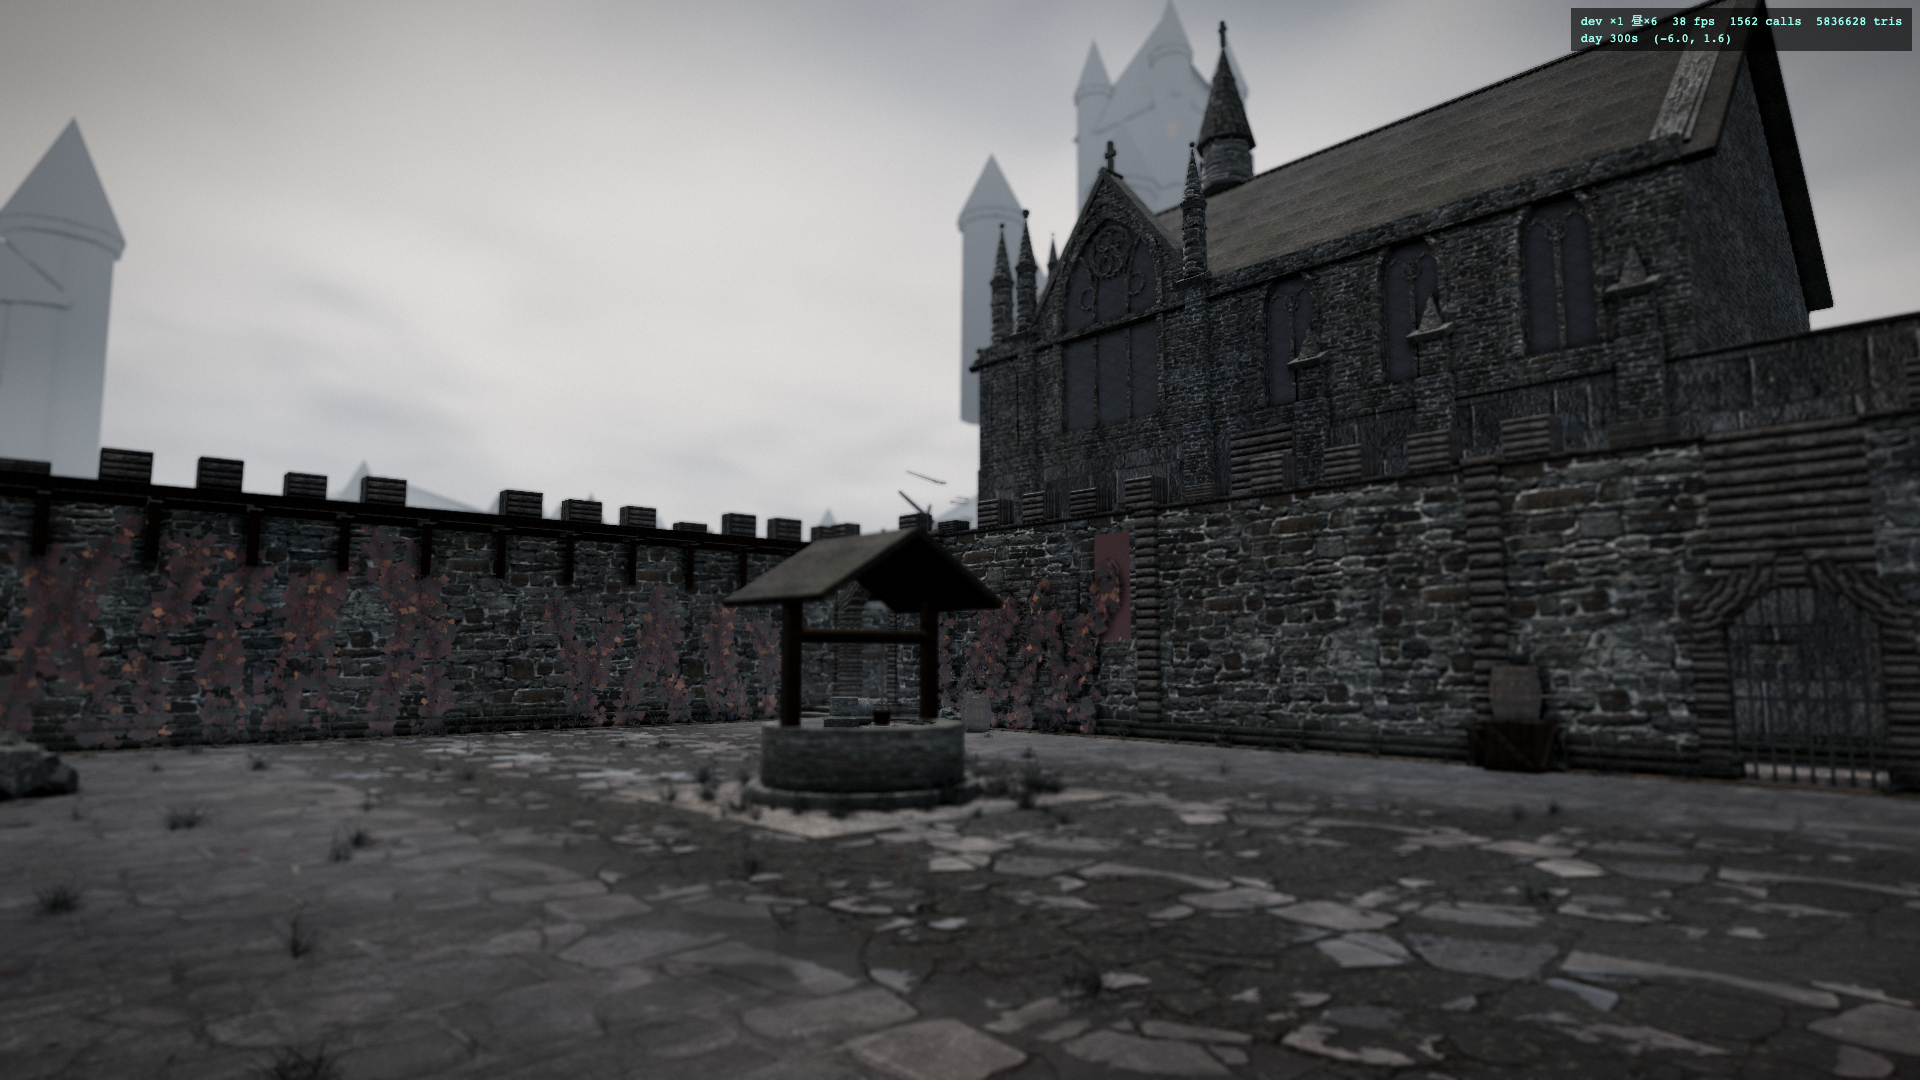
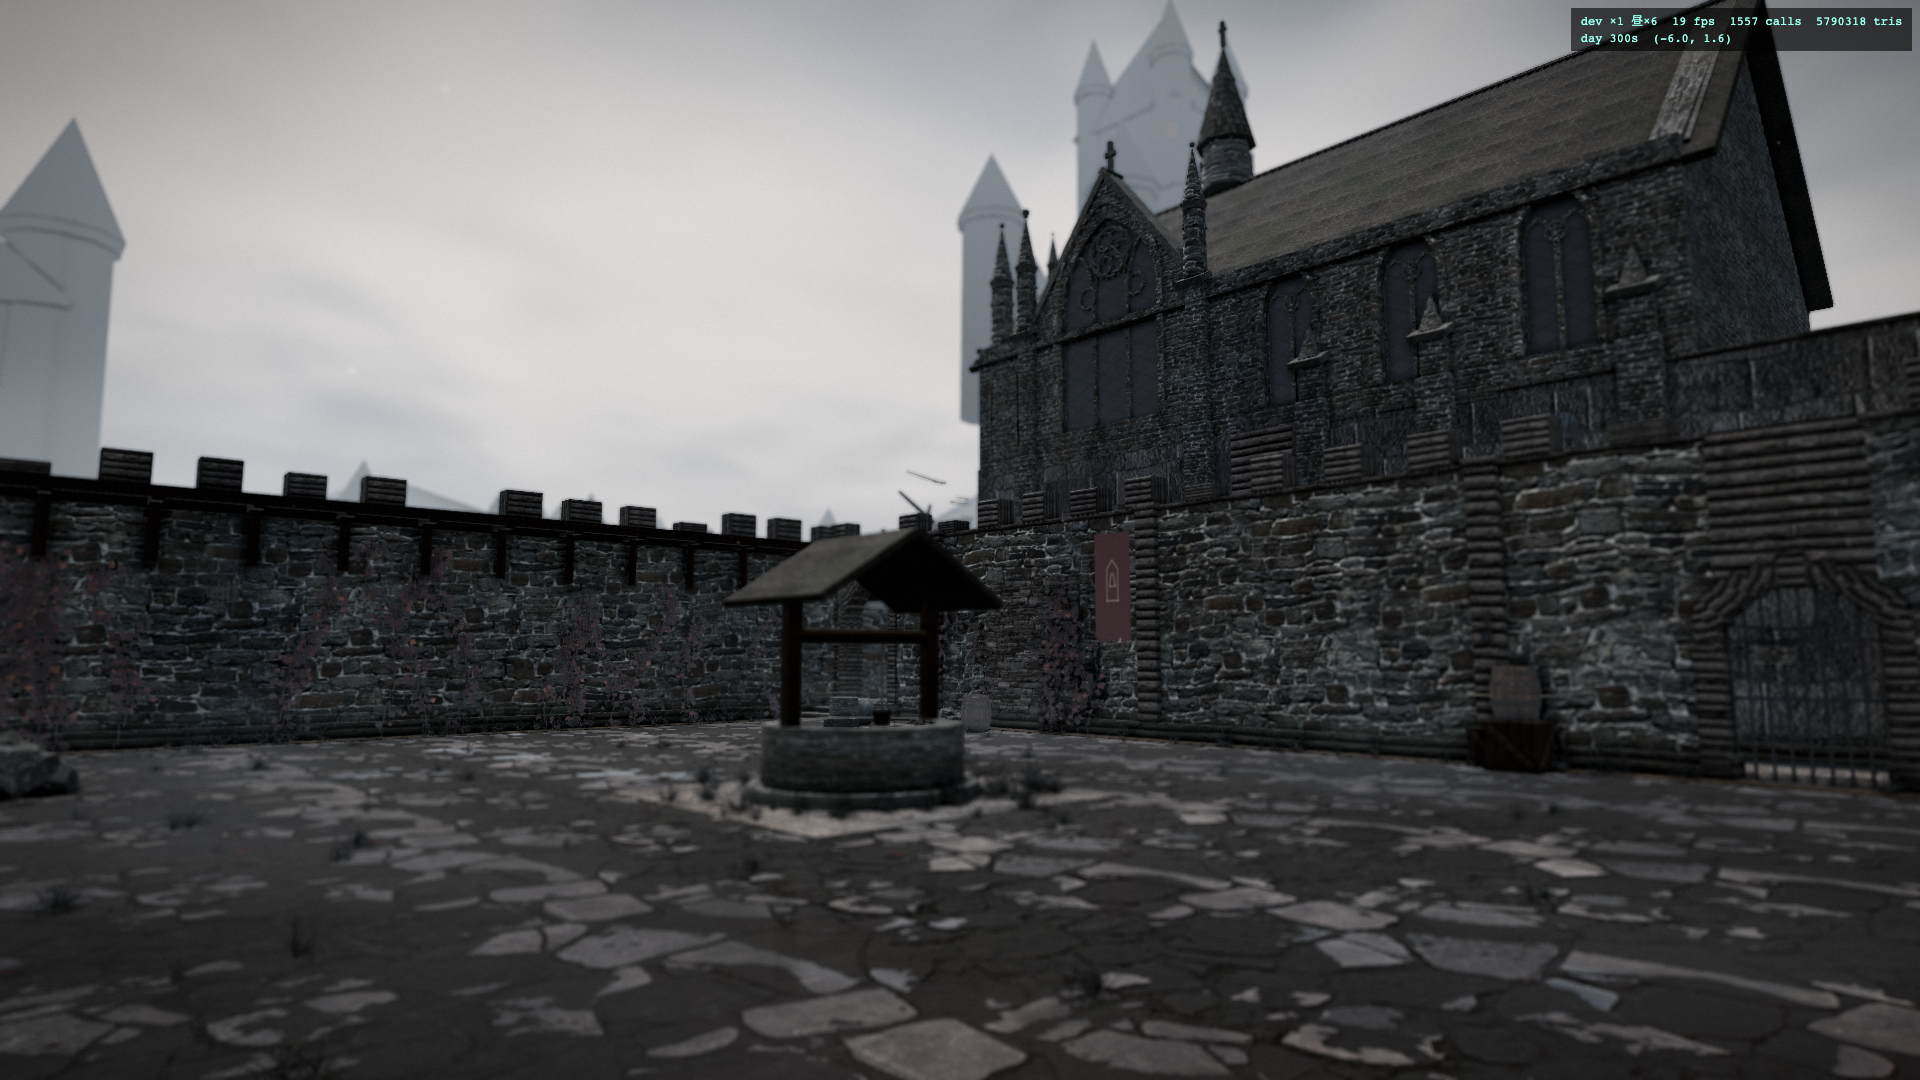
env: gatehouse full stone + arch ribs, woven rug, cold-gray peel plaster; ivy/wall/joint refinement
- gatehouse (bible v2.8 correction): remove plaster, full stone (lower wallRubble / upper wallAshlar)
  + woodBeam arch ribs (new geom.archRib); matches concept/02 stone-to-top + timber ribs.
- rug: single-piece woven texture (weave normal, border pattern, fringe/frayed edges, local wear/stains)
  replacing flat cloth box; ground gstd now 0.205 (was 0).
- wallPlaster: cold gray to #6b7178 + peel revealing stone (chapel interior only).
- ivy: leaves ~1/2 size, randomized root spacing (uneven coverage), desaturated (mostly 7a2a1c/5e1a1a).
- wall anti-banding: per-course UV height warp + low-freq joint fade breaks equal-course corduroy.
- slab joints: final dark-mud pass (#2b2620) darker than slab tops, persists outside blend band;
  blend-side light pavers joints darkened too.
- verified 1920x1080 grazing POM (no black), vitest 108, measure.sh over 0 / gfrac 0.

diff --git a/src/render/materials.ts b/src/render/materials.ts
@@ -523,8 +523,80 @@ export function leadedGlass(warm = false): { map: THREE.CanvasTexture; panes: TH
   return { map, panes };
 }
 
+/** 门房地毯（concept/02）：单幅织纹 + 边框图案 + 局部磨损污渍 + 两端流苏破边。返回 map（带 alpha）与织纹法线。 */
+export function rugTexture(): { map: THREE.CanvasTexture; normalMap: THREE.CanvasTexture } {
+  const W = 256, H = 384;
+  const mk = (): { c: HTMLCanvasElement; g: CanvasRenderingContext2D } => {
+    const c = document.createElement('canvas'); c.width = W; c.height = H;
+    return { c, g: c.getContext('2d')! };
+  };
+  const r = rng(401);
+  const col = mk(), ht = mk();
+  // 褪色酒红底（圣经 4.3 #5b1f24 去饱和）+ 织纹明暗
+  col.g.fillStyle = '#5e2a26'; col.g.fillRect(0, 0, W, H);
+  ht.g.fillStyle = '#808080'; ht.g.fillRect(0, 0, W, H);
+  // 织纹：经纬细线
+  for (let y = 0; y < H; y += 3) {
+    col.g.fillStyle = `rgba(0,0,0,${0.06 + (y % 6 === 0 ? 0.06 : 0)})`;
+    col.g.fillRect(0, y, W, 1);
+    ht.g.fillStyle = y % 6 === 0 ? '#6a6a6a' : '#909090';
+    ht.g.fillRect(0, y, W, 1);
+  }
+  for (let x = 0; x < W; x += 3) {
+    col.g.fillStyle = `rgba(255,240,220,${0.03 + (x % 6 === 0 ? 0.04 : 0)})`;
+    col.g.fillRect(x, 0, 1, H);
+    ht.g.fillStyle = x % 6 === 0 ? '#969696' : '#7a7a7a';
+    ht.g.fillRect(x, 0, 1, H);
+  }
+  // 边框：麻布色回纹边（圣经 4.3 #7a6a52）
+  const bw = 26;
+  col.g.fillStyle = '#6e5c44';
+  col.g.fillRect(0, 0, W, bw); col.g.fillRect(0, H - bw, W, bw);
+  col.g.fillRect(0, 0, bw, H); col.g.fillRect(W - bw, 0, bw, H);
+  col.g.strokeStyle = 'rgba(40,28,20,0.7)'; col.g.lineWidth = 2;
+  col.g.strokeRect(bw - 4, bw - 4, W - 2 * bw + 8, H - 2 * bw + 8);
+  // 边框菱形纹样
+  col.g.fillStyle = 'rgba(90,40,32,0.8)';
+  for (let x = bw; x < W - bw; x += 18) {
+    for (const yy of [bw / 2, H - bw / 2]) {
+      col.g.beginPath();
+      col.g.moveTo(x, yy - 6); col.g.lineTo(x + 7, yy); col.g.lineTo(x, yy + 6); col.g.lineTo(x - 7, yy);
+      col.g.closePath(); col.g.fill();
+    }
+  }
+  // 中央磨损露白茬 + 污渍（局部，不满铺）
+  for (let i = 0; i < 26; i++) {
+    const x = bw + r() * (W - 2 * bw), y = bw + r() * (H - 2 * bw), rad = 6 + r() * 22;
+    const grd = col.g.createRadialGradient(x, y, 1, x, y, rad);
+    const worn = r() < 0.5;
+    grd.addColorStop(0, worn ? 'rgba(150,120,90,0.28)' : 'rgba(30,20,16,0.3)');
+    grd.addColorStop(1, 'rgba(0,0,0,0)');
+    col.g.fillStyle = grd; col.g.fillRect(x - rad, y - rad, rad * 2, rad * 2);
+  }
+  // 两端流苏破边（alpha）：短边外留流苏须，边缘参差不齐
+  col.g.globalCompositeOperation = 'destination-out';
+  for (let x = 0; x < W; x += 2) {
+    const cutTop = 3 + r() * 7, cutBot = 3 + r() * 7;
+    col.g.clearRect(x, 0, 2, cutTop);
+    col.g.clearRect(x, H - cutBot, 2, cutBot);
+  }
+  col.g.globalCompositeOperation = 'source-over';
+  col.g.strokeStyle = 'rgba(110,92,68,0.9)'; col.g.lineWidth = 1;
+  for (let x = 2; x < W; x += 4) {
+    const fl = 5 + r() * 9;
+    col.g.beginPath(); col.g.moveTo(x, 2); col.g.lineTo(x + (r() - 0.5) * 3, 2 - fl); col.g.stroke();
+    col.g.beginPath(); col.g.moveTo(x, H - 2); col.g.lineTo(x + (r() - 0.5) * 3, H - 2 + fl); col.g.stroke();
+  }
+  const map = new THREE.CanvasTexture(col.c);
+  map.colorSpace = THREE.SRGBColorSpace;
+  map.wrapS = map.wrapT = THREE.ClampToEdgeWrapping;
+  map.anisotropy = 8;
+  const normalMap = normalFromHeight(ht.c, 1.4);
+  normalMap.wrapS = normalMap.wrapT = THREE.ClampToEdgeWrapping;
+  return { map, normalMap };
+}
+
 // —— 共享石材着色器（石墙 / 石地 / 瓦 / 碎石共用，onBeforeCompile 注入）——
-// 世界坐标宏观噪声打破平铺重复；墙脚潮湿发黑偏绿苔、墙顶向上面生苔与竖向雨渍、白灰缝压暗；
 // 庭院石板用扫描单元图做每块差异/倒角/泥缝，低洼石板 + 洼地中心生成不规则积水（镜面反射）；
 // 视差遮挡贴图（POM，8–24 步）用 disp 高度图，低画质经 setMaterialsQuality 关闭。
 
@@ -562,6 +634,8 @@ export interface AwUniforms {
   uAwHasBlend: { value: number };
   uAwBlendHalf: { value: number };
   uAwBlendBand: { value: number };
+  /** 抹灰剥落露石（礼拜堂室内），1 启用。 */
+  uAwPeel: { value: number };
 }
 
 /** 庭院积水洼地（模拟坐标 x,z,r），与 vfx.ts PUDDLES 完全一致；着色器里 z 取负转到世界坐标。 */
@@ -604,6 +678,7 @@ export function awUniforms(floor: number, wet: number, desat: number, tint: [num
     uAwHasBlend: { value: 0 },
     uAwBlendHalf: { value: 4.5 },
     uAwBlendBand: { value: 1.2 },
+    uAwPeel: { value: 0 },
   };
 }
 
@@ -631,7 +706,7 @@ const AW_FRAG_PREFIX = /* glsl */`
 varying vec3 vAwWorldPos;
 varying vec3 vAwWorldNormal;
 uniform float uAwSteps, uAwFloor, uAwWet, uAwDesat, uAwHeightScale, uAwHasDisp, uAwHasCells, uAwGrid, uAwPuddleAmt;
-uniform float uAwHasBlend, uAwBlendHalf, uAwBlendBand;
+uniform float uAwHasBlend, uAwBlendHalf, uAwBlendBand, uAwPeel;
 uniform vec2 uAwStreakBand;
 uniform vec4 uAwWear[3];
 uniform vec4 uAwPuddles[4];
@@ -701,6 +776,10 @@ const AW_MAP_BLOCK = /* glsl */`
   mat3 awTBN = mat3(T * invmax, B * invmax, awN);
   awTBNg = awTBN;
   awUv = awPom(vMapUv, awV * awTBN);
+  if (uAwFloor < 0.5) {
+    // 打破等距砌缝"灯芯绒"节奏（5.1 反重复）：按墙面横向低频噪声扰动层高
+    awUv.y += (awFbm(vec2((vAwWorldPos.x + vAwWorldPos.z) * 0.6, 3.0)) - 0.5) * 0.05;
+  }
   awMacro = awFbm(awW * 0.16 + 3.7);
   awMacro2 = awFbm(awW * 0.45 + 11.3);
   vec2 awWallUv = vec2(vAwWorldPos.x + vAwWorldPos.z, vAwWorldPos.y);
@@ -742,7 +821,7 @@ const AW_MAP_BLOCK = /* glsl */`
     awPuddle = clamp(awPuddle, 0.0, 1.0);
     awWet = clamp(uAwWet * 0.45 + awPuddle, 0.0, 1.0);
     // 过渡带内 monastery 单元特征渐隐，让位给边缘旧石板（避免两套缝叠加）
-    awJGeo *= 1.0 - awBlend;
+    awJGeo *= 1.0 - awBlend * 0.5;
     awSlabHash = mix(awSlabHash, 0.5, awBlend);
     awPuddle *= 1.0 - awBlend * 0.7;
     awStoneA = mix(awStoneA, 1.0, awBlend);
@@ -779,7 +858,13 @@ if (uAwFloor < 0.5) {
   float awMn = min(sampledDiffuseColor.r, min(sampledDiffuseColor.g, sampledDiffuseColor.b));
   float awSat0 = (awMx - awMn) / max(awMx, 0.001);
   float awMortar = smoothstep(0.30, 0.50, awLum0) * (1.0 - smoothstep(0.10, 0.30, awSat0));
+  // 随机让部分砌缝变淡/消失，打破等厚横层节奏
+  awMortar *= 0.4 + 0.6 * smoothstep(0.3, 0.7, awFbm(vec2((vAwWorldPos.x + vAwWorldPos.z) * 0.9, vAwWorldPos.y * 0.5) + 7.0));
   sampledDiffuseColor.rgb = mix(sampledDiffuseColor.rgb, vec3(0.05, 0.055, 0.062) * (0.7 + 0.6 * awMacro), awMortar * 0.95);
+  if (uAwPeel > 0.5) {
+    float awPeel = smoothstep(0.56, 0.74, awFbm(vec2(vAwWorldPos.x + vAwWorldPos.z, vAwWorldPos.y) * 1.4 + 2.0));
+    sampledDiffuseColor.rgb = mix(sampledDiffuseColor.rgb, vec3(0.10, 0.11, 0.12) * (0.7 + 0.6 * awMacro), awPeel * 0.85);
+  }
 }
 diffuseColor *= sampledDiffuseColor;
 diffuseColor.rgb *= 1.0 - 0.62 * awJGeo;
@@ -814,6 +899,12 @@ diffuseColor.rgb *= 1.0 - 0.62 * awJGeo;
   diffuseColor.rgb = mix(diffuseColor.rgb, vec3(dot(diffuseColor.rgb, vec3(0.3333))) * 1.22, awPolish * 0.5);
   // 积水：深色冷水 + 微弱冷天光
   diffuseColor.rgb = mix(diffuseColor.rgb, vec3(0.018, 0.026, 0.040), awPuddle * 0.82);
+  // 末端泥缝压暗：缝明显暗于石板顶面（泥 #2b2620），混合带外同样生效
+  diffuseColor.rgb = mix(diffuseColor.rgb, vec3(0.030, 0.026, 0.020) * (0.7 + 0.5 * awMacro2), awJGeo * 0.9);
+  if (uAwHasBlend > 0.5 && awBlend > 0.01) {
+    float awBJ = smoothstep(0.30, 0.5, dot(texture2D(uAwBlendAlbedo, vMapUv).rgb, vec3(0.3333)));
+    diffuseColor.rgb = mix(diffuseColor.rgb, vec3(0.035, 0.032, 0.026), awBlend * awBJ * 0.7);
+  }
 }
 `;
 

diff --git a/src/render/staticLevel.ts b/src/render/staticLevel.ts
@@ -3,10 +3,10 @@ import * as THREE from 'three';
 import { GLTFLoader } from 'three/addons/loaders/GLTFLoader.js';
 import { PROPS, RAISED_Y, WALLS, WELL } from '../sim/level';
 import { mergeGeometries } from 'three/addons/utils/BufferGeometryUtils.js';
-import { archHeader, archLeaf, Batch, gable } from './geom';
+import { archHeader, archLeaf, archRib, Batch, gable } from './geom';
 import { buildFurniture } from './furniture';
 import { variants } from './materialVariants';
-import { grassTexture, ivyLeafTexture, leadedGlass, leafTexture, Materials, mossTexture, rustTexture, scaleUV, smokeTexture, tiledBox, trackPending } from './materials';
+import { grassTexture, ivyLeafTexture, leadedGlass, leafTexture, Materials, mossTexture, rugTexture, rustTexture, scaleUV, smokeTexture, tiledBox, trackPending } from './materials';
 
 const R = RAISED_Y;
 const HALF_PI = Math.PI / 2;
@@ -222,12 +222,12 @@ export function buildStaticLevel(m: Materials): StaticLevel {
     }
   }
 
-  // 门房内墙：下半 wallRubble + 上半 wallPlaster（5.1），贴在内墙面
+  // 门房内墙：全部石墙（concept/02，圣经 v2.8）——下半 wallRubble + 上半 wallAshlar，不用抹灰
   {
     const gh = (x0: number, z0: number, x1: number, z1: number): void => {
       b.box(v.wallRubble, x0, z0, x1, z1, 0.05, 1.5, 3.2);
-      b.box(v.wallPlaster, x0, z0, x1, z1, 1.5, 3.5, 2.6);
-      b.box(v.wallTrim, x0, z0, x1, z1, 1.46, 1.54, 2.2); // 腰线
+      b.box(v.wallAshlar, x0, z0, x1, z1, 1.5, 3.5, 2.6);
+      b.box(v.wallTrim, x0, z0, x1, z1, 1.46, 1.54, 2.2); // 石腰线
     };
     gh(-3.0, -8.0, -2.94, 0.0);   // 西内墙
     gh(2.94, -8.0, 3.0, 0.0);     // 东内墙
@@ -259,9 +259,18 @@ export function buildStaticLevel(m: Materials): StaticLevel {
   b.box(v.floorDirt, 9.3, 0.5, 10, 28.5, -0.3, 0.006, 2);
   b.box(v.floorDirt, -10, 0.5, 10, 1.2, -0.3, 0.006, 2);
   b.box(v.floorDirt, -10, 27.8, 10, 28.5, -0.3, 0.006, 2);
-  // 门房室内石板（concept/02）+ 中央地毯
+  // 门房室内石板（concept/02）+ 中央织纹地毯（单幅图案 + 流苏破边 + 磨损污渍）
   b.box(v.floorInterior, -3.5, -8.5, 3.5, 0, -0.3, 0.005, 2);
-  b.box(v.clothLinen, -1.3, -6.2, 1.3, -2.6, 0.006, 0.02, 1.4);
+  {
+    const rug = rugTexture();
+    const rugMat = new THREE.MeshPhysicalMaterial({
+      map: rug.map, normalMap: rug.normalMap, normalScale: new THREE.Vector2(0.8, 0.8),
+      color: 0xffffff, roughness: 0.95, metalness: 0,
+      sheen: 0.5, sheenRoughness: 0.7, sheenColor: new THREE.Color(0x6a4a3a),
+      alphaTest: 0.4, side: THREE.DoubleSide,
+    });
+    b.geo(rugMat, new THREE.PlaneGeometry(2.6, 3.6), 0, 0.02, -4.4, 0, -HALF_PI, 0);
+  }
   b.box(v.floorFlag, 13, 7.5, 25, 25.5, -0.3, R, 3.6);
   b.box(v.floorFlag, 10, 25.5, 25, 29, -0.3, R, 3.6);
   // 矮台阶（三级，每级 0.15 m）：外廊尖拱前、礼拜堂侧门前（wallTrim）
@@ -278,6 +287,7 @@ export function buildStaticLevel(m: Materials): StaticLevel {
   b.geo(v.woodBeam, gable(7.4, 1.7, 0.4), 0, 3.9, 0.25);
   for (const z of [-6.6, -4.1, -1.6]) {
     b.box(v.woodBeam, -3.2, z - 0.16, 3.2, z + 0.16, 3.22, 3.6, 1); // 粗壮方料横梁
+    b.geo(v.woodBeam, archRib(6.0, 0.72, 0.2), 0, 2.5, z); // 木拱肋（concept/02）
     // 两端斜撑托架（梁下 45° 撑木）
     for (const sx of [-1, 1]) {
       const geo = tiledBox(0.16, 0.9, 0.16, 1);
@@ -417,14 +427,17 @@ export function buildStaticLevel(m: Materials): StaticLevel {
     qTmp.setFromEuler(eTmp);
     ivyQuat.push(new THREE.Quaternion().setFromAxisAngle(new THREE.Vector3(0, 1, 0), yaw).multiply(qTmp));
     ivyScale.push(scale);
-    const c = ivyPalette[ivyR() < 0.1 ? 4 : ivyR() < 0.16 ? 5 : Math.floor(ivyR() * 4)];
-    ivyCol.push(c.clone().multiplyScalar(0.85 + ivyR() * 0.5));
+    // 降饱和：以红褐/酒红为主（圣经 4.2），橙黄少量；亮度克制避免艳红
+    const c = ivyPalette[ivyR() < 0.05 ? 4 : ivyR() < 0.1 ? 5 : Math.floor(ivyR() * 4)];
+    ivyCol.push(c.clone().multiplyScalar(0.7 + ivyR() * 0.3));
   };
   for (const pa of patches) {
     const yaw = Math.atan2(pa.nx, pa.nz);
-    const roots = Math.max(3, Math.round((pa.u1 - pa.u0) / 1.0)); // 更多主茎，成片攀爬
+    const roots = Math.max(3, Math.round((pa.u1 - pa.u0) / 1.0));
     for (let s = 0; s < roots; s++) {
-      const uRoot = pa.u0 + ((s + 0.5) * (pa.u1 - pa.u0)) / roots + (ivyR() - 0.5) * 0.5;
+      // 主簇间距随机化（非等距）：有的墙面光秃、有的成片
+      const uRoot = pa.u0 + ivyR() * (pa.u1 - pa.u0);
+      const vigor = 0.35 + ivyR() * 0.65; // 每株长势不一
       const phase = ivyR() * 6.28, amp = 0.18 + ivyR() * 0.3;
       const top = pa.top * (0.82 + ivyR() * 0.22);
       // 主茎从墙脚攀爬
@@ -433,21 +446,21 @@ export function buildStaticLevel(m: Materials): StaticLevel {
         const u = uRoot + Math.sin(y * 1.3 + phase) * amp * (0.4 + t) + (ivyR() - 0.5) * 0.08;
         const px = pa.bx + pa.tx * u, pz = pa.bz + pa.tz * u;
         decal.geo(bark, new THREE.BoxGeometry(0.02, 0.15, 0.02), px + pa.nx * 0.025, y, pz + pa.nz * 0.025, yaw, (ivyR() - 0.5) * 0.25, (ivyR() - 0.5) * 0.25);
-        // 上密下疏 + 顶端破碎：密度随高度上升，顶梢 ragged
-        const densEff = pa.dens * (0.55 + 0.45 * t) * (t > 0.9 ? 0.55 : 1);
+        // 上密下疏 + 顶端破碎 + 每株长势不一：密度随高度上升，顶梢 ragged
+        const densEff = pa.dens * vigor * (0.55 + 0.45 * t) * (t > 0.9 ? 0.55 : 1);
         if (ivyR() > densEff) continue; // 裸茎节点（gaps）
         const n = 5 + Math.floor(ivyR() * 6);
-        const rad = 0.18 + ivyR() * 0.22;
+        const rad = 0.14 + ivyR() * 0.16;
         for (let l = 0; l < n; l++) {
           const du = (ivyR() - 0.5) * rad * 2, dv = (ivyR() - 0.5) * rad * 1.6;
-          pushLeaf(px + pa.tx * du, y + dv, pz + pa.tz * du, yaw, pa.nx, pa.nz, 0.22 + ivyR() * 0.14);
+          pushLeaf(px + pa.tx * du, y + dv, pz + pa.tz * du, yaw, pa.nx, pa.nz, 0.12 + ivyR() * 0.08); // 叶片缩小到 ~1/2
         }
         // 偶有分枝向外探出再缀叶
         if (ivyR() < 0.28) {
           const bu = u + (ivyR() - 0.5) * 0.6, by = y + 0.1 + ivyR() * 0.2;
           const bpx = pa.bx + pa.tx * bu, bpz = pa.bz + pa.tz * bu;
           decal.geo(bark, new THREE.BoxGeometry(0.015, 0.3, 0.015), bpx + pa.nx * 0.1, by, bpz + pa.nz * 0.1, yaw, 0.6, 0);
-          for (let l = 0; l < 6; l++) pushLeaf(bpx + pa.tx * (ivyR() - 0.5) * 0.34, by + (ivyR() - 0.5) * 0.3, bpz + pa.tz * (ivyR() - 0.5) * 0.34, yaw, pa.nx, pa.nz, 0.22 + ivyR() * 0.13);
+          for (let l = 0; l < 6; l++) pushLeaf(bpx + pa.tx * (ivyR() - 0.5) * 0.34, by + (ivyR() - 0.5) * 0.3, bpz + pa.tz * (ivyR() - 0.5) * 0.34, yaw, pa.nx, pa.nz, 0.12 + ivyR() * 0.07);
         }
       }
     }

diff --git a/src/render/materialVariants.ts b/src/render/materialVariants.ts
@@ -45,7 +45,7 @@ const cache = new WeakMap<Materials, Variants>();
 
 interface StoneOpts {
   floor: number; wet: number; desat: number; tint: [number, number, number];
-  hs: number; ns: number; rough: number; band?: [number, number]; grid?: number; puddle?: number;
+  hs: number; ns: number; rough: number; band?: [number, number]; grid?: number; puddle?: number; peel?: number;
 }
 
 /** 石材族：挂共享石材着色器 + 加载扫描贴图（去饱和/冷灰由 desat+tint 控制）。 */
@@ -59,6 +59,7 @@ function stoneMat(name: string, o: StoneOpts, pending: Promise<void>[]): THREE.M
   const u = awUniforms(o.floor, o.wet, o.desat, o.tint, o.hs, o.band);
   if (o.grid) u.uAwGrid.value = o.grid;
   if (o.puddle) u.uAwPuddleAmt.value = o.puddle;
+  if (o.peel) u.uAwPeel.value = o.peel;
   stoneShader(mat, u);
   enhance(mat, name, o.ns, pending);
   return mat;
@@ -84,7 +85,7 @@ export function variants(m: Materials): Variants {
   const wallAshlar = stoneMat('medieval_blocks_03', { floor: 0, wet: 0.3, desat: 0.72, tint: [0.80, 0.84, 0.92], hs: 0.02, ns: 1.0, rough: 0.85, band: [2.2, 4.15] }, pending);
   const wallTrim = stoneMat('granite_wall', { floor: 0, wet: 0.28, desat: 0.6, tint: [0.82, 0.86, 0.94], hs: 0.02, ns: 1.1, rough: 0.8, band: [2.2, 4.15] }, pending);
   const wallRough = stoneMat('rustic_stone_wall_02', { floor: 0, wet: 0.35, desat: 0.55, tint: [0.70, 0.74, 0.82], hs: 0.03, ns: 1.2, rough: 0.9, band: [0.5, 3.0] }, pending);
-  const wallPlaster = stoneMat('grey_plaster', { floor: 0, wet: 0.2, desat: 0.5, tint: [0.60, 0.63, 0.68], hs: 0.01, ns: 0.5, rough: 0.9 }, pending);
+  const wallPlaster = stoneMat('grey_plaster', { floor: 0, wet: 0.2, desat: 0.6, tint: [0.46, 0.49, 0.55], hs: 0.01, ns: 0.5, rough: 0.9, peel: 1 }, pending);
 
   // —— 地面族 ——
   const floorFlag = m.flag; // 主路：monastery_stone_floor 不规则大石板（含单元图积水）

diff --git a/src/render/geom.ts b/src/render/geom.ts
@@ -124,6 +124,16 @@ export function cyl(mat: THREE.Material, rTop: number, rBot: number, h: number, 
 
 export const lerp = (a: number, b: number, t: number): number => a + (b - a) * t;
 export const clamp01 = (t: number): number => Math.max(0, Math.min(1, t));
+
+/** 木拱肋：跨宽 w、矢高 rise、截面 thick 的 curved 方料肋（本地 XY 平面，沿 x 跨、y 起拱）。 */
+export function archRib(w: number, rise: number, thick: number): THREE.BufferGeometry {
+  const curve = new THREE.QuadraticBezierCurve3(
+    new THREE.Vector3(-w / 2, 0, 0),
+    new THREE.Vector3(0, rise * 1.7, 0),
+    new THREE.Vector3(w / 2, 0, 0),
+  );
+  return new THREE.TubeGeometry(curve, 18, thick / 2, 6, false);
+}
 export const smooth = (t: number): number => { const c = clamp01(t); return c * c * (3 - 2 * c); };
 
 /** 门洞上方的拱形过梁：宽 w，洞口起拱 s、拱顶 p，向上填到 H。底边不含洞口部分。 */
